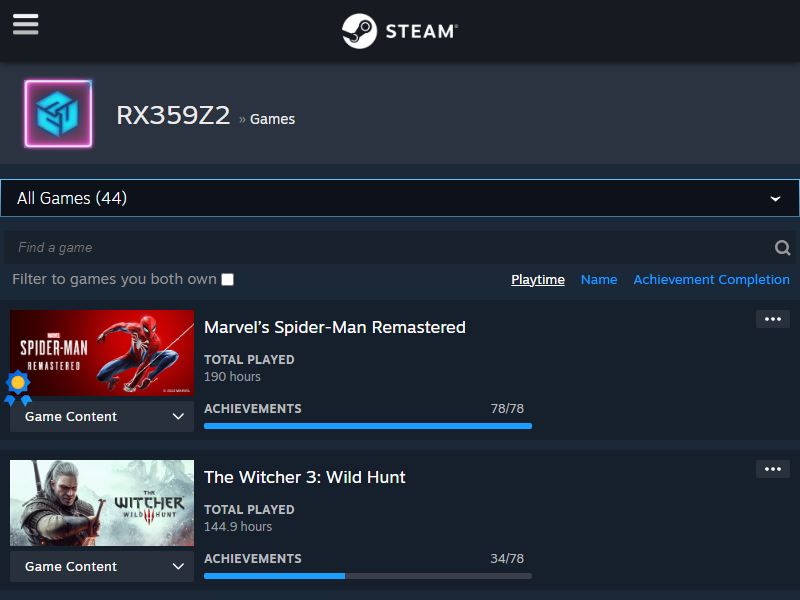
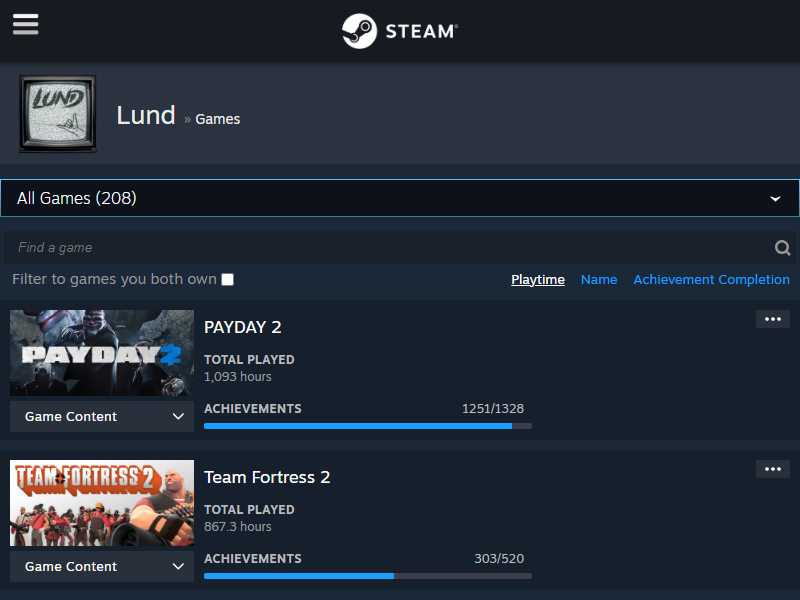
Added steam custom profiles

diff --git a/SteamWebScraper.js b/SteamWebScraper.js
@@ -1,5 +1,6 @@
 const puppeteer = require('puppeteer');
 const express = require('express');
+const axios = require('axios');
 let page;
 let allGames;
 let actualGameName;
@@ -26,7 +27,12 @@ async function login(steamID) {
 }
 login()
 async function scrape(steamID) {
-  await page.goto(`https://steamcommunity.com/profiles/${steamID}/games/?tab=all`); // Go to base achievment+game page
+  if(/[a-z]/i.test(steamID)){
+    await page.goto(`https://steamcommunity.com/id/${steamID}/games/?tab=all`);
+  } else {
+    await page.goto(`https://steamcommunity.com/profiles/${steamID}/games/?tab=all`); // Go to base achievment+game page
+  }
+  
   await page.waitForTimeout(1000);
   await page.screenshot({'path': 'oxddylabs_js.png'});
   let currentURL = page.url()
